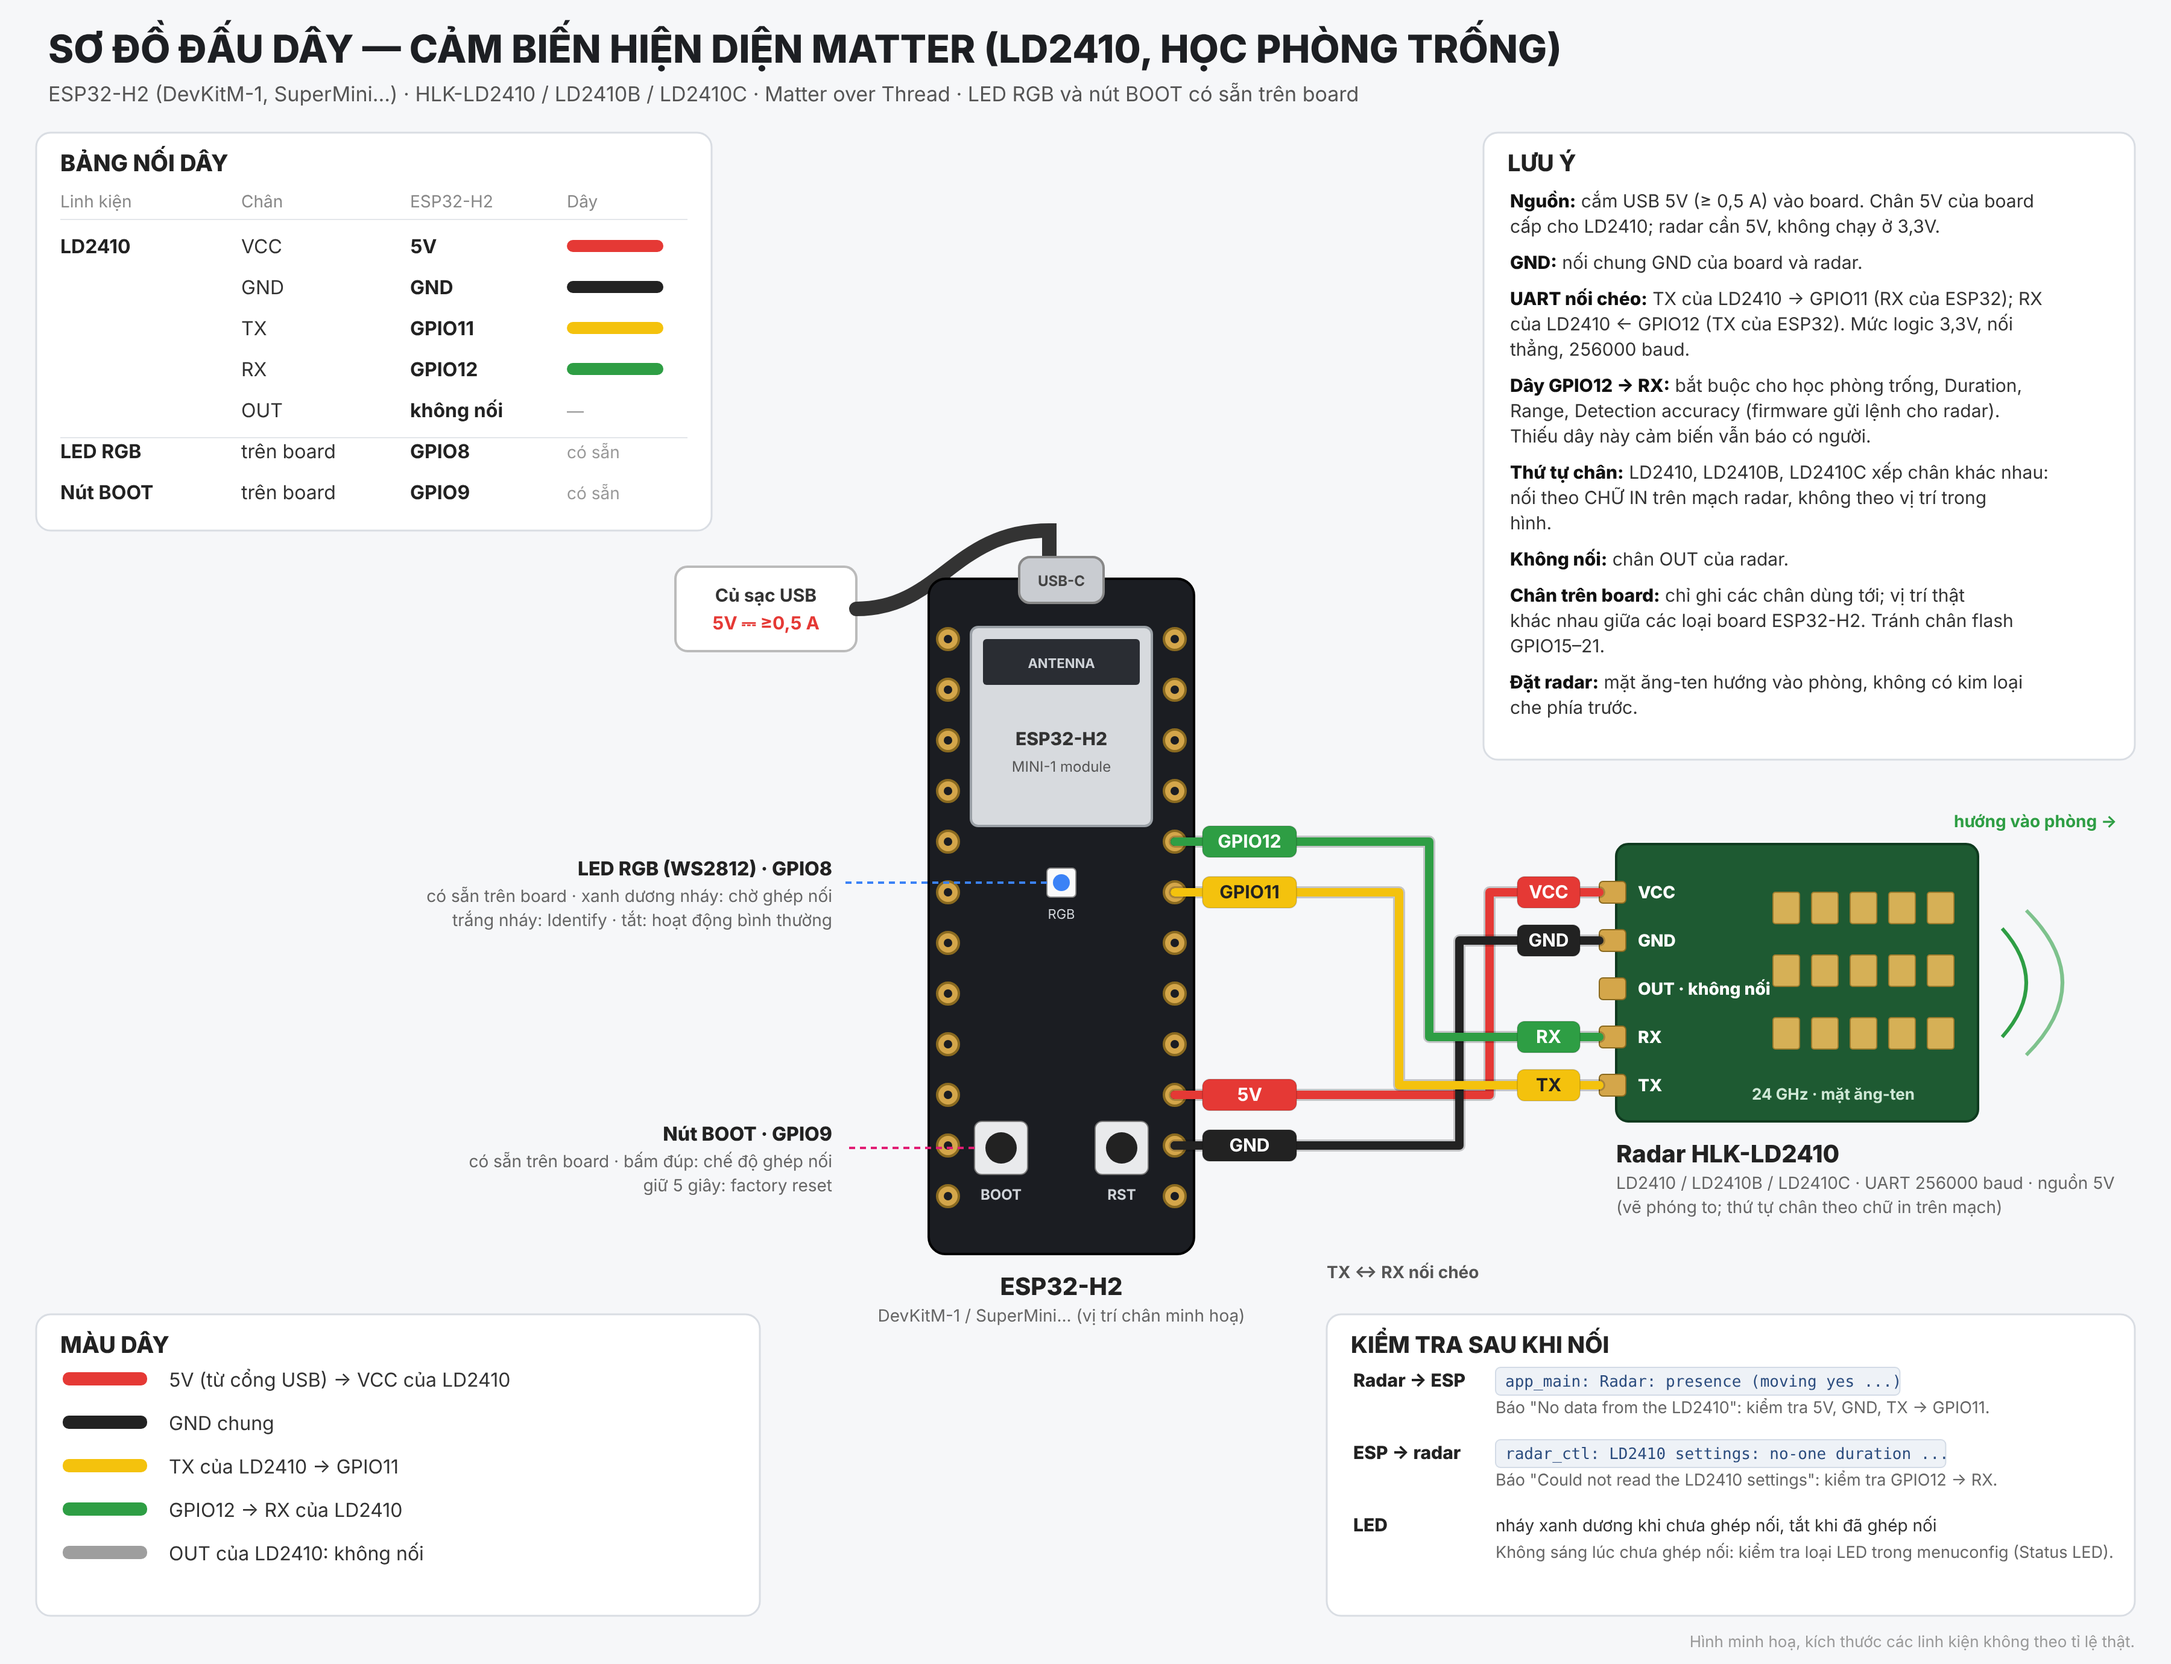
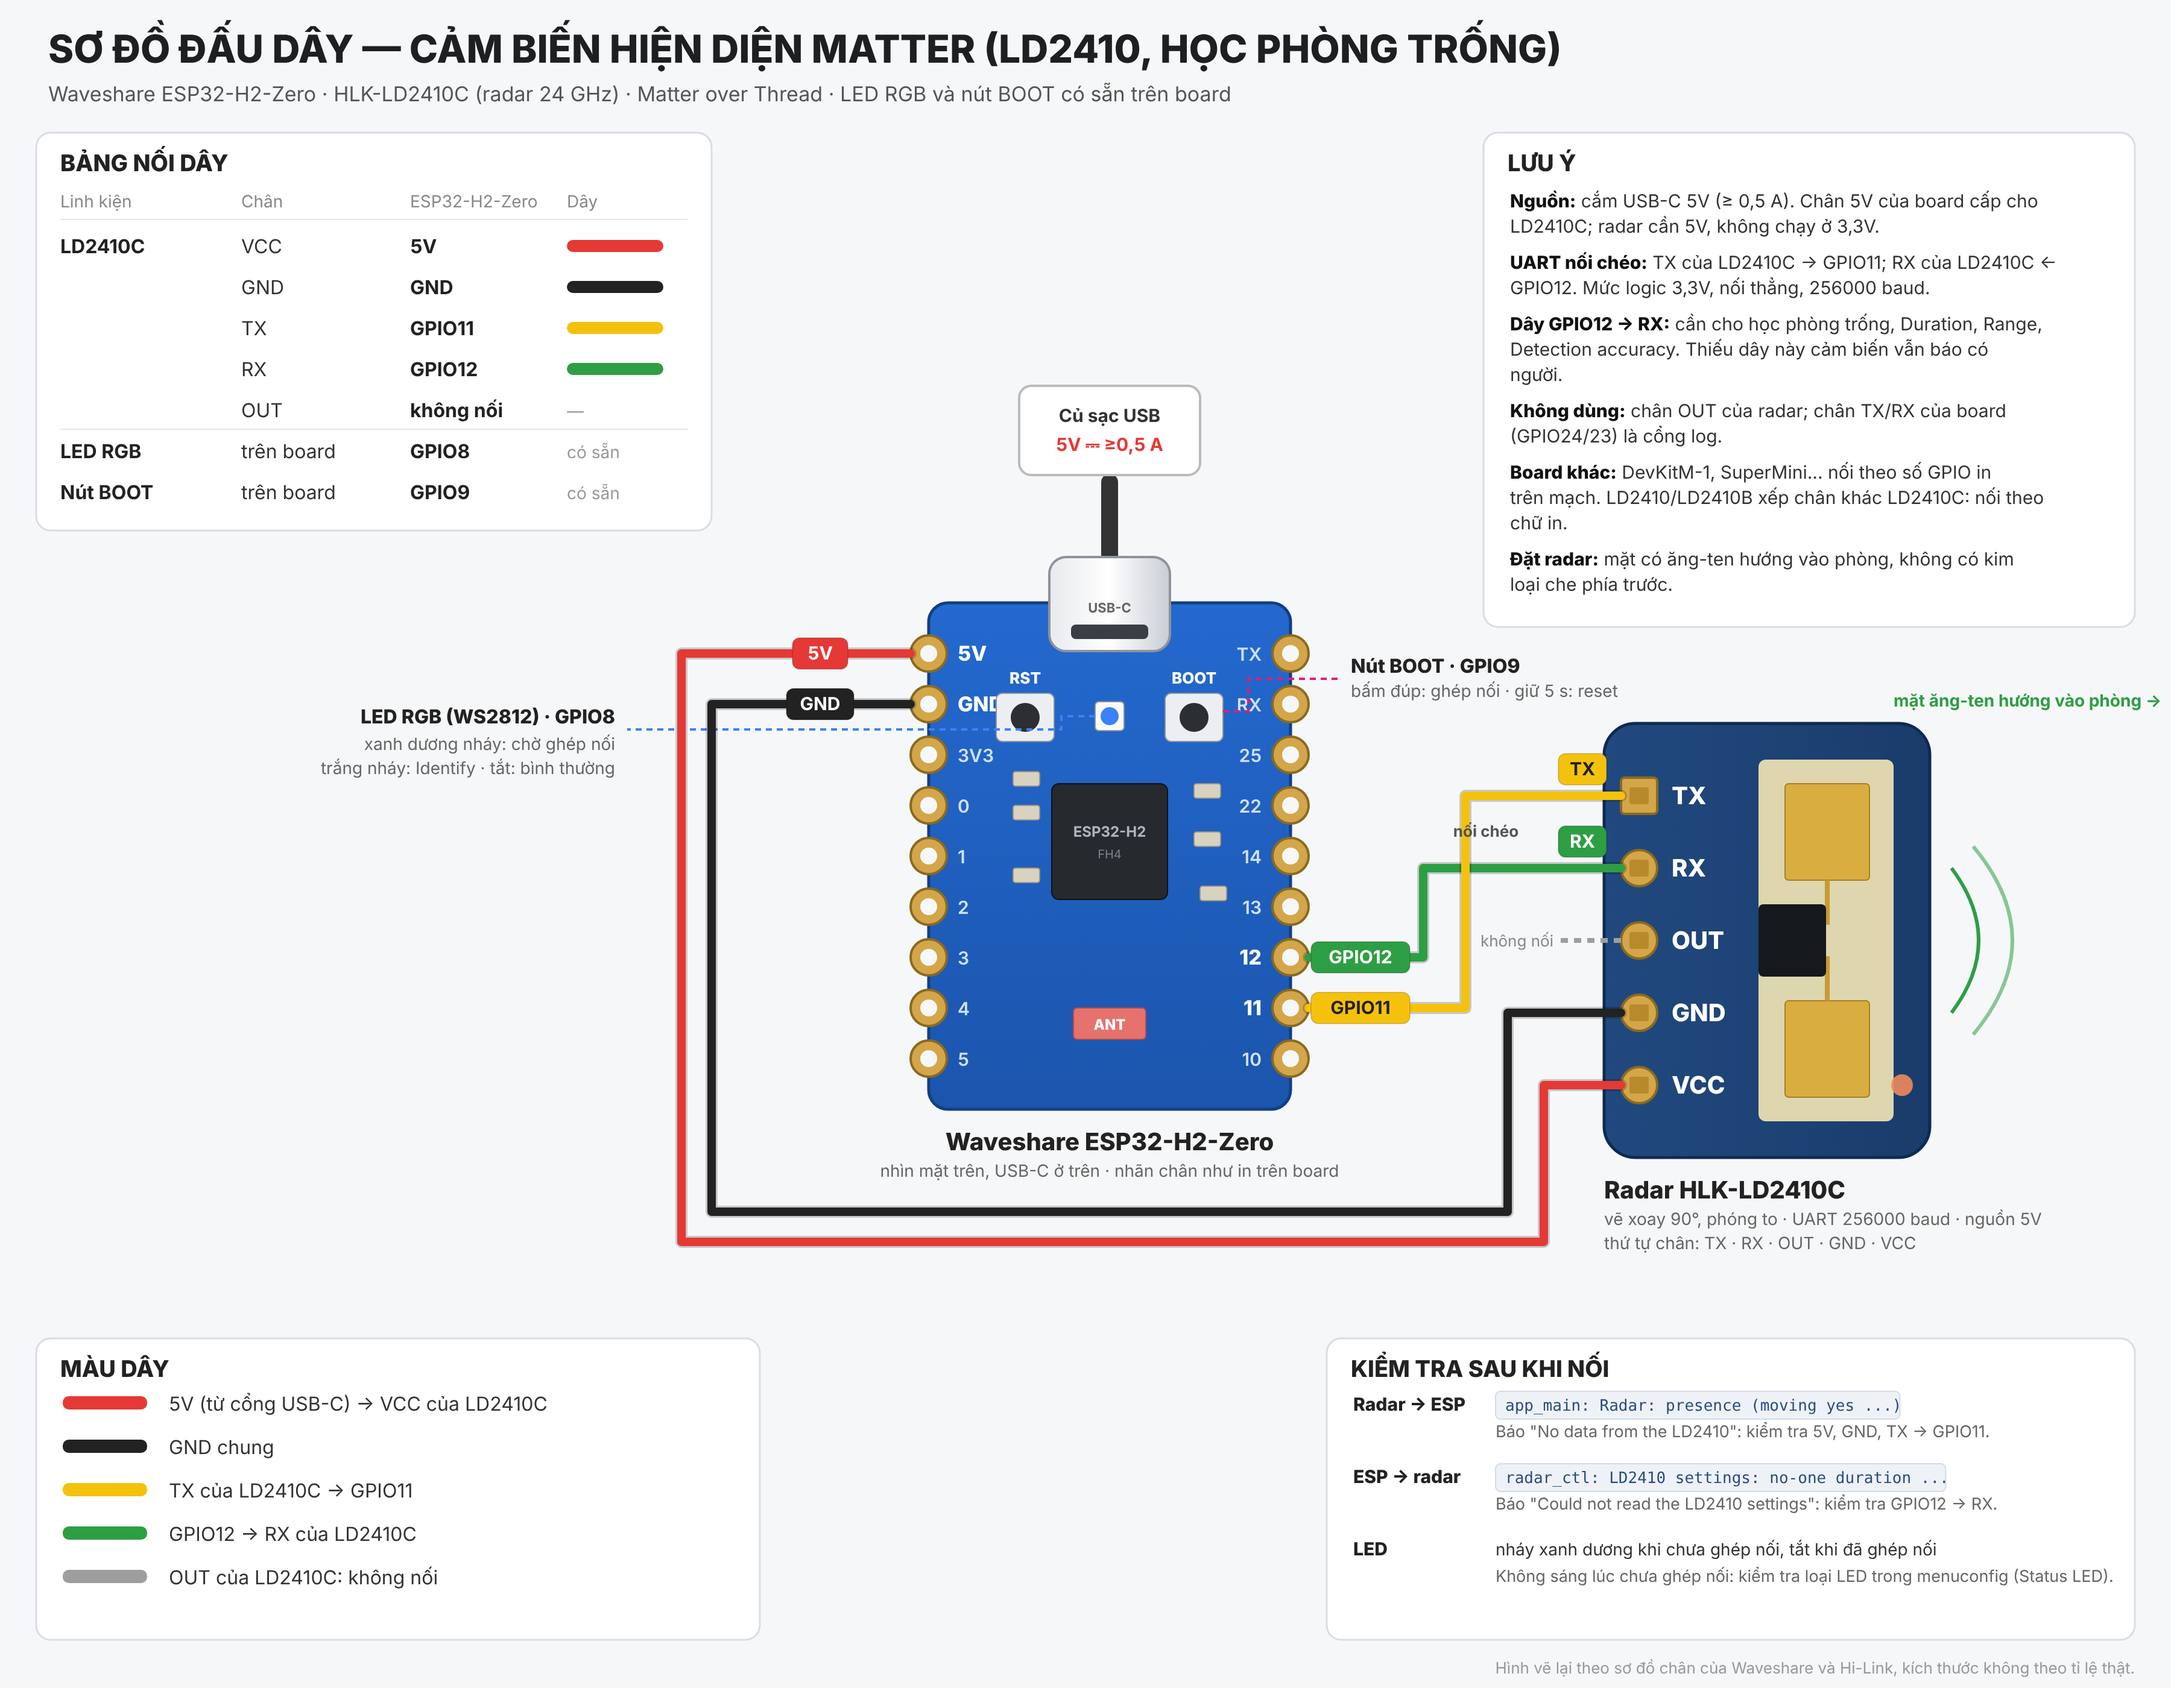
Learning presence sensor: wiring diagram after the real ESP32-H2-Zero and LD2410C
Redrawn from the Waveshare ESP32-H2-Zero and HLK-LD2410C pinouts: the
board with its castellated pins as printed (5V, GND, 3V3, 0-5 / TX, RX,
25, 22, 14, 13, 12, 11, 10), RST and BOOT buttons and RGB LED, and the
LD2410C with its TX, RX, OUT, GND, VCC header.

Claude-Session: https://claude.ai/code/session_019h46AWxLmXyJQ9JoGU7vKJ

diff --git a/ESP32-H2/matter-presence-ld2410-learning/README.md b/ESP32-H2/matter-presence-ld2410-learning/README.md
@@ -87,14 +87,14 @@ chip-tool modeselect change-to-mode 1 0x7283 4    # Detection accuracy 0.2 m
 
 ## Phần cứng
 
-- **ESP32-H2-DevKitM-1** (hoặc board ESP32-H2 khác, flash 4 MB, ví dụ ESP32-H2 Super Mini)
+- **Waveshare ESP32-H2-Zero** (như trong sơ đồ), hoặc board ESP32-H2 khác có flash 4 MB: ESP32-H2-DevKitM-1, ESP32-H2 Super Mini...
 - Radar hiện diện **HLK-LD2410** (LD2410, LD2410B, LD2410C)
 
 ### Sơ đồ nối dây
 
-![Sơ đồ đấu dây: ESP32-H2, radar HLK-LD2410 (VCC 5V, GND, TX → GPIO11, RX ← GPIO12), LED RGB GPIO8 và nút BOOT GPIO9 có sẵn trên board](docs/wiring.png)
+![Sơ đồ đấu dây: Waveshare ESP32-H2-Zero và radar HLK-LD2410C (VCC 5V, GND, TX → GPIO11, RX ← GPIO12), LED RGB GPIO8 và nút BOOT GPIO9 có sẵn trên board](docs/wiring.png)
 
-Hình minh họa, không theo tỉ lệ. Vị trí chân trên board ESP32-H2 và thứ tự chân của LD2410/LD2410B/LD2410C khác nhau giữa các loại: nối theo chữ in trên mạch, không theo vị trí trong hình.
+Hình vẽ lại theo sơ đồ chân của Waveshare ESP32-H2-Zero và HLK-LD2410C, không theo tỉ lệ. Board ESP32-H2 khác thì nối theo số GPIO in trên mạch; LD2410 và LD2410B xếp chân khác LD2410C: nối theo chữ in trên mạch radar.
 
 | LD2410 | ESP32-H2 |
 |---|---|
